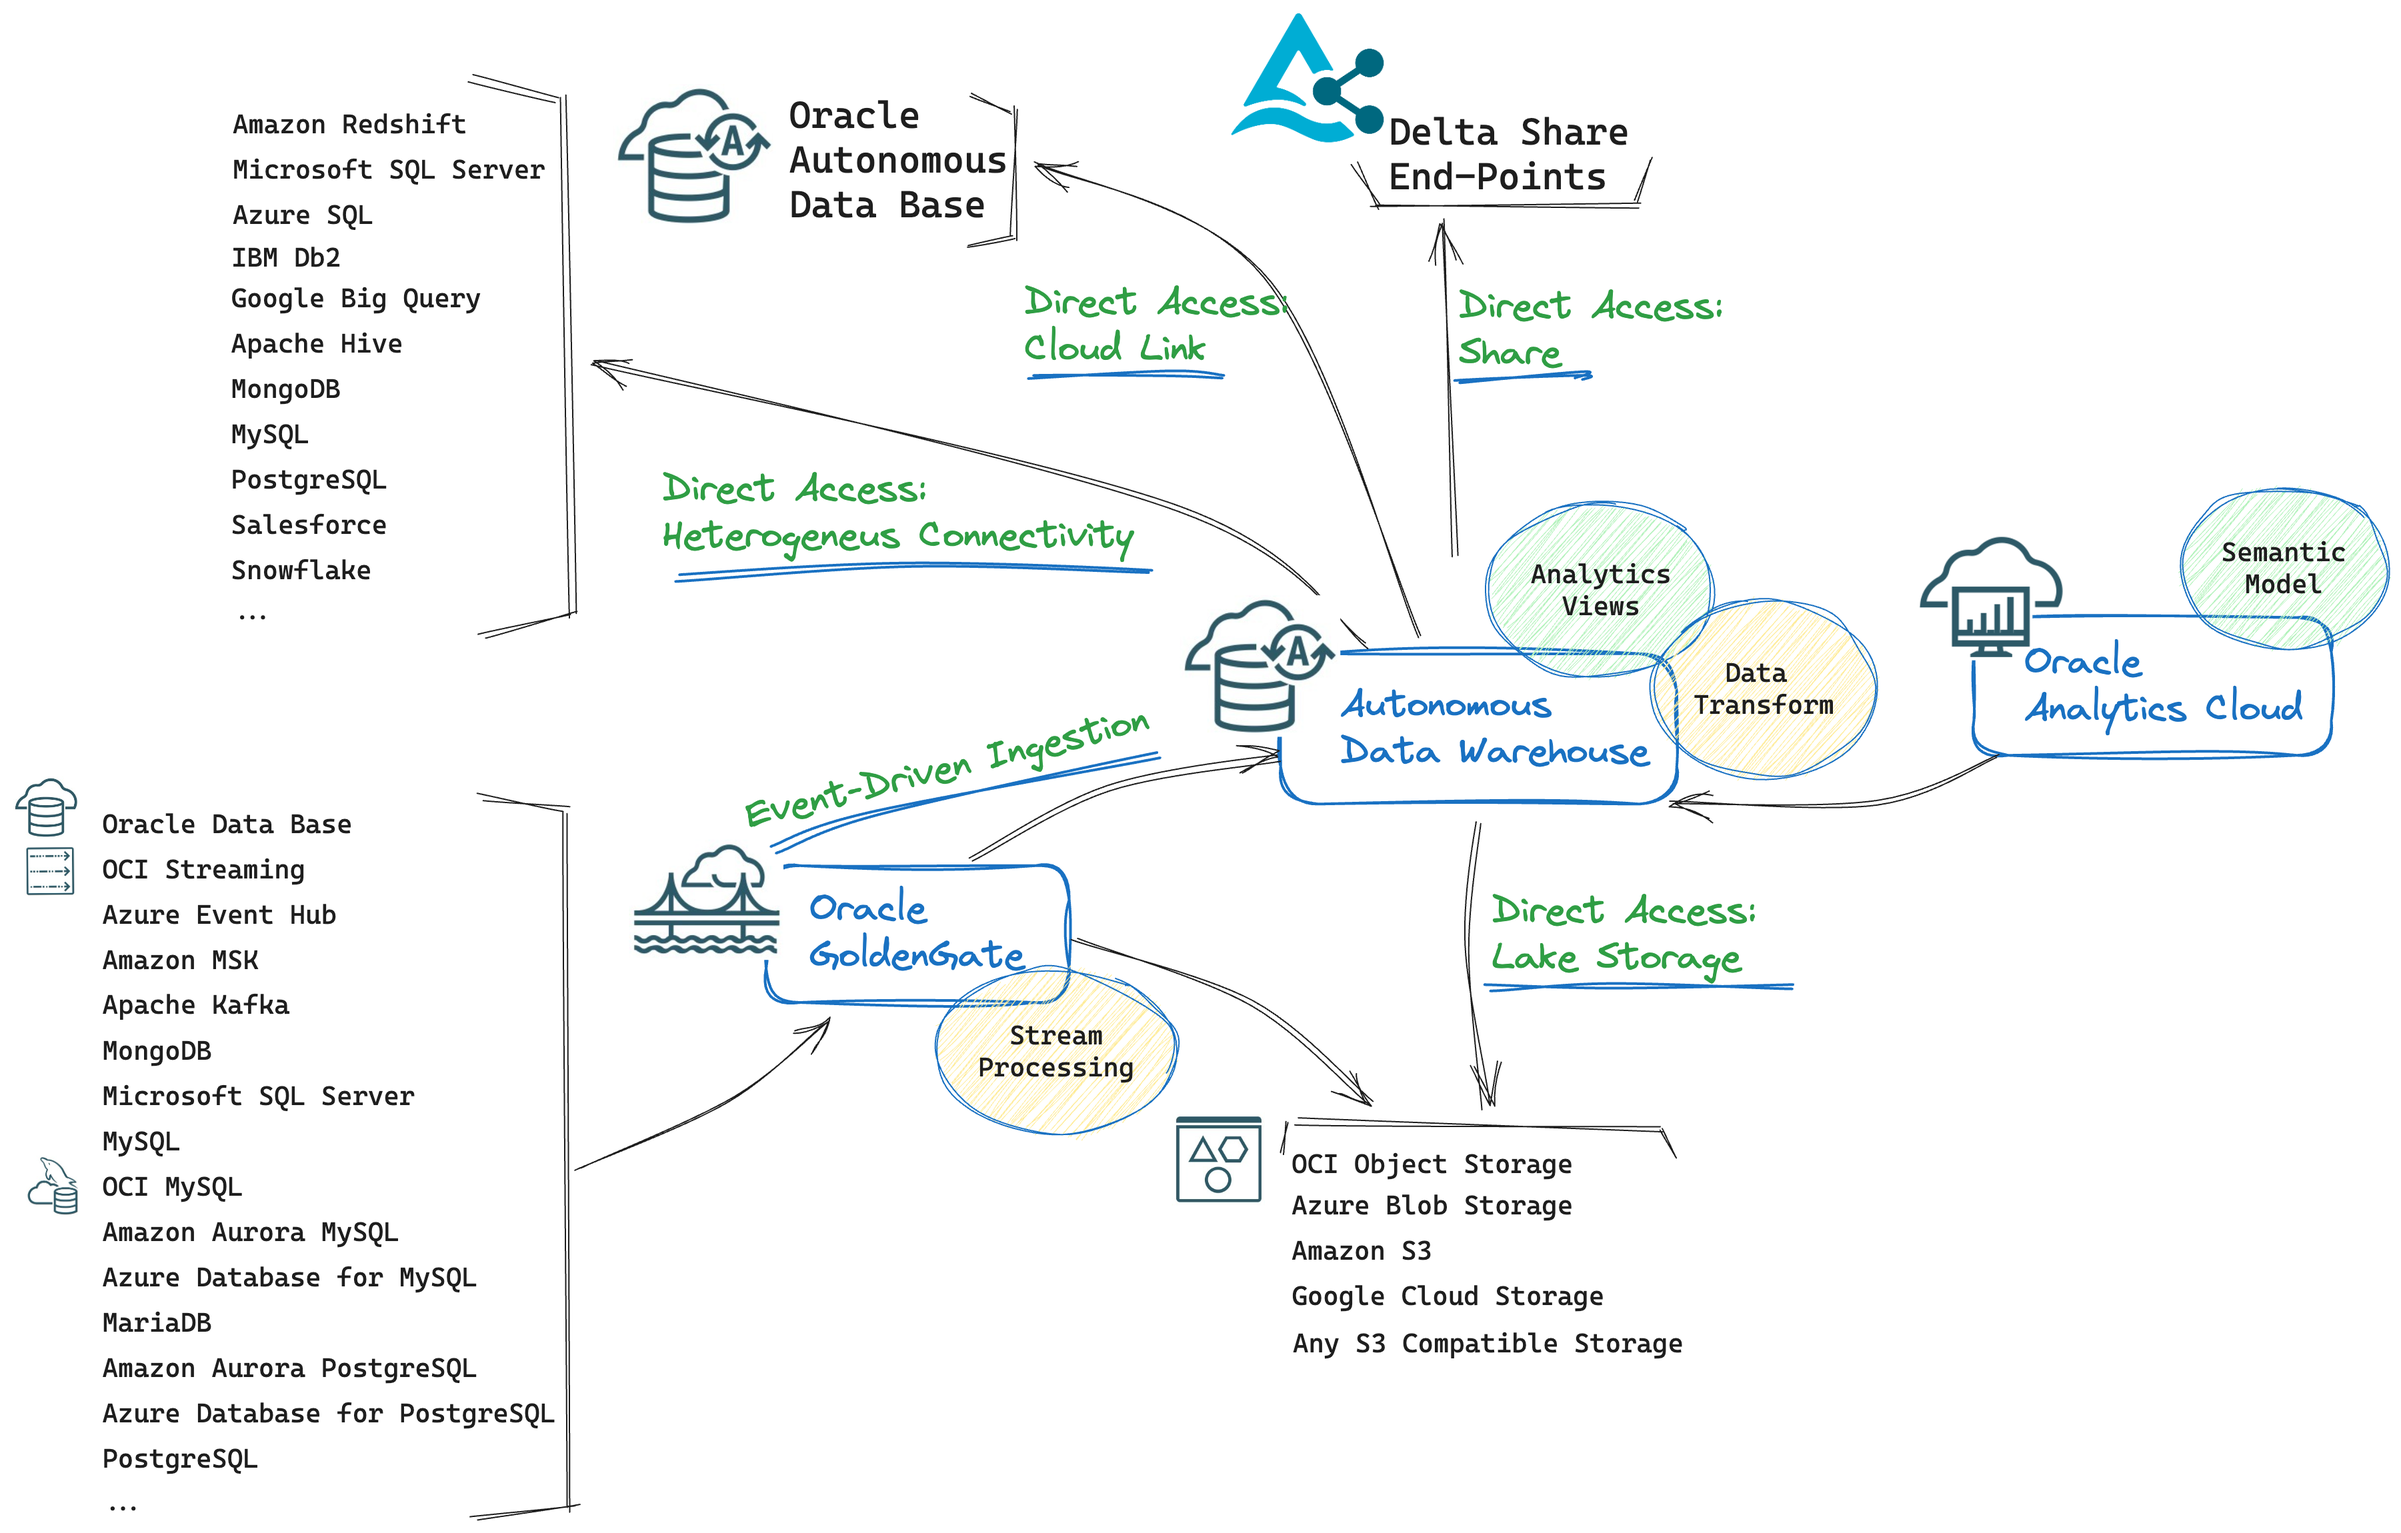
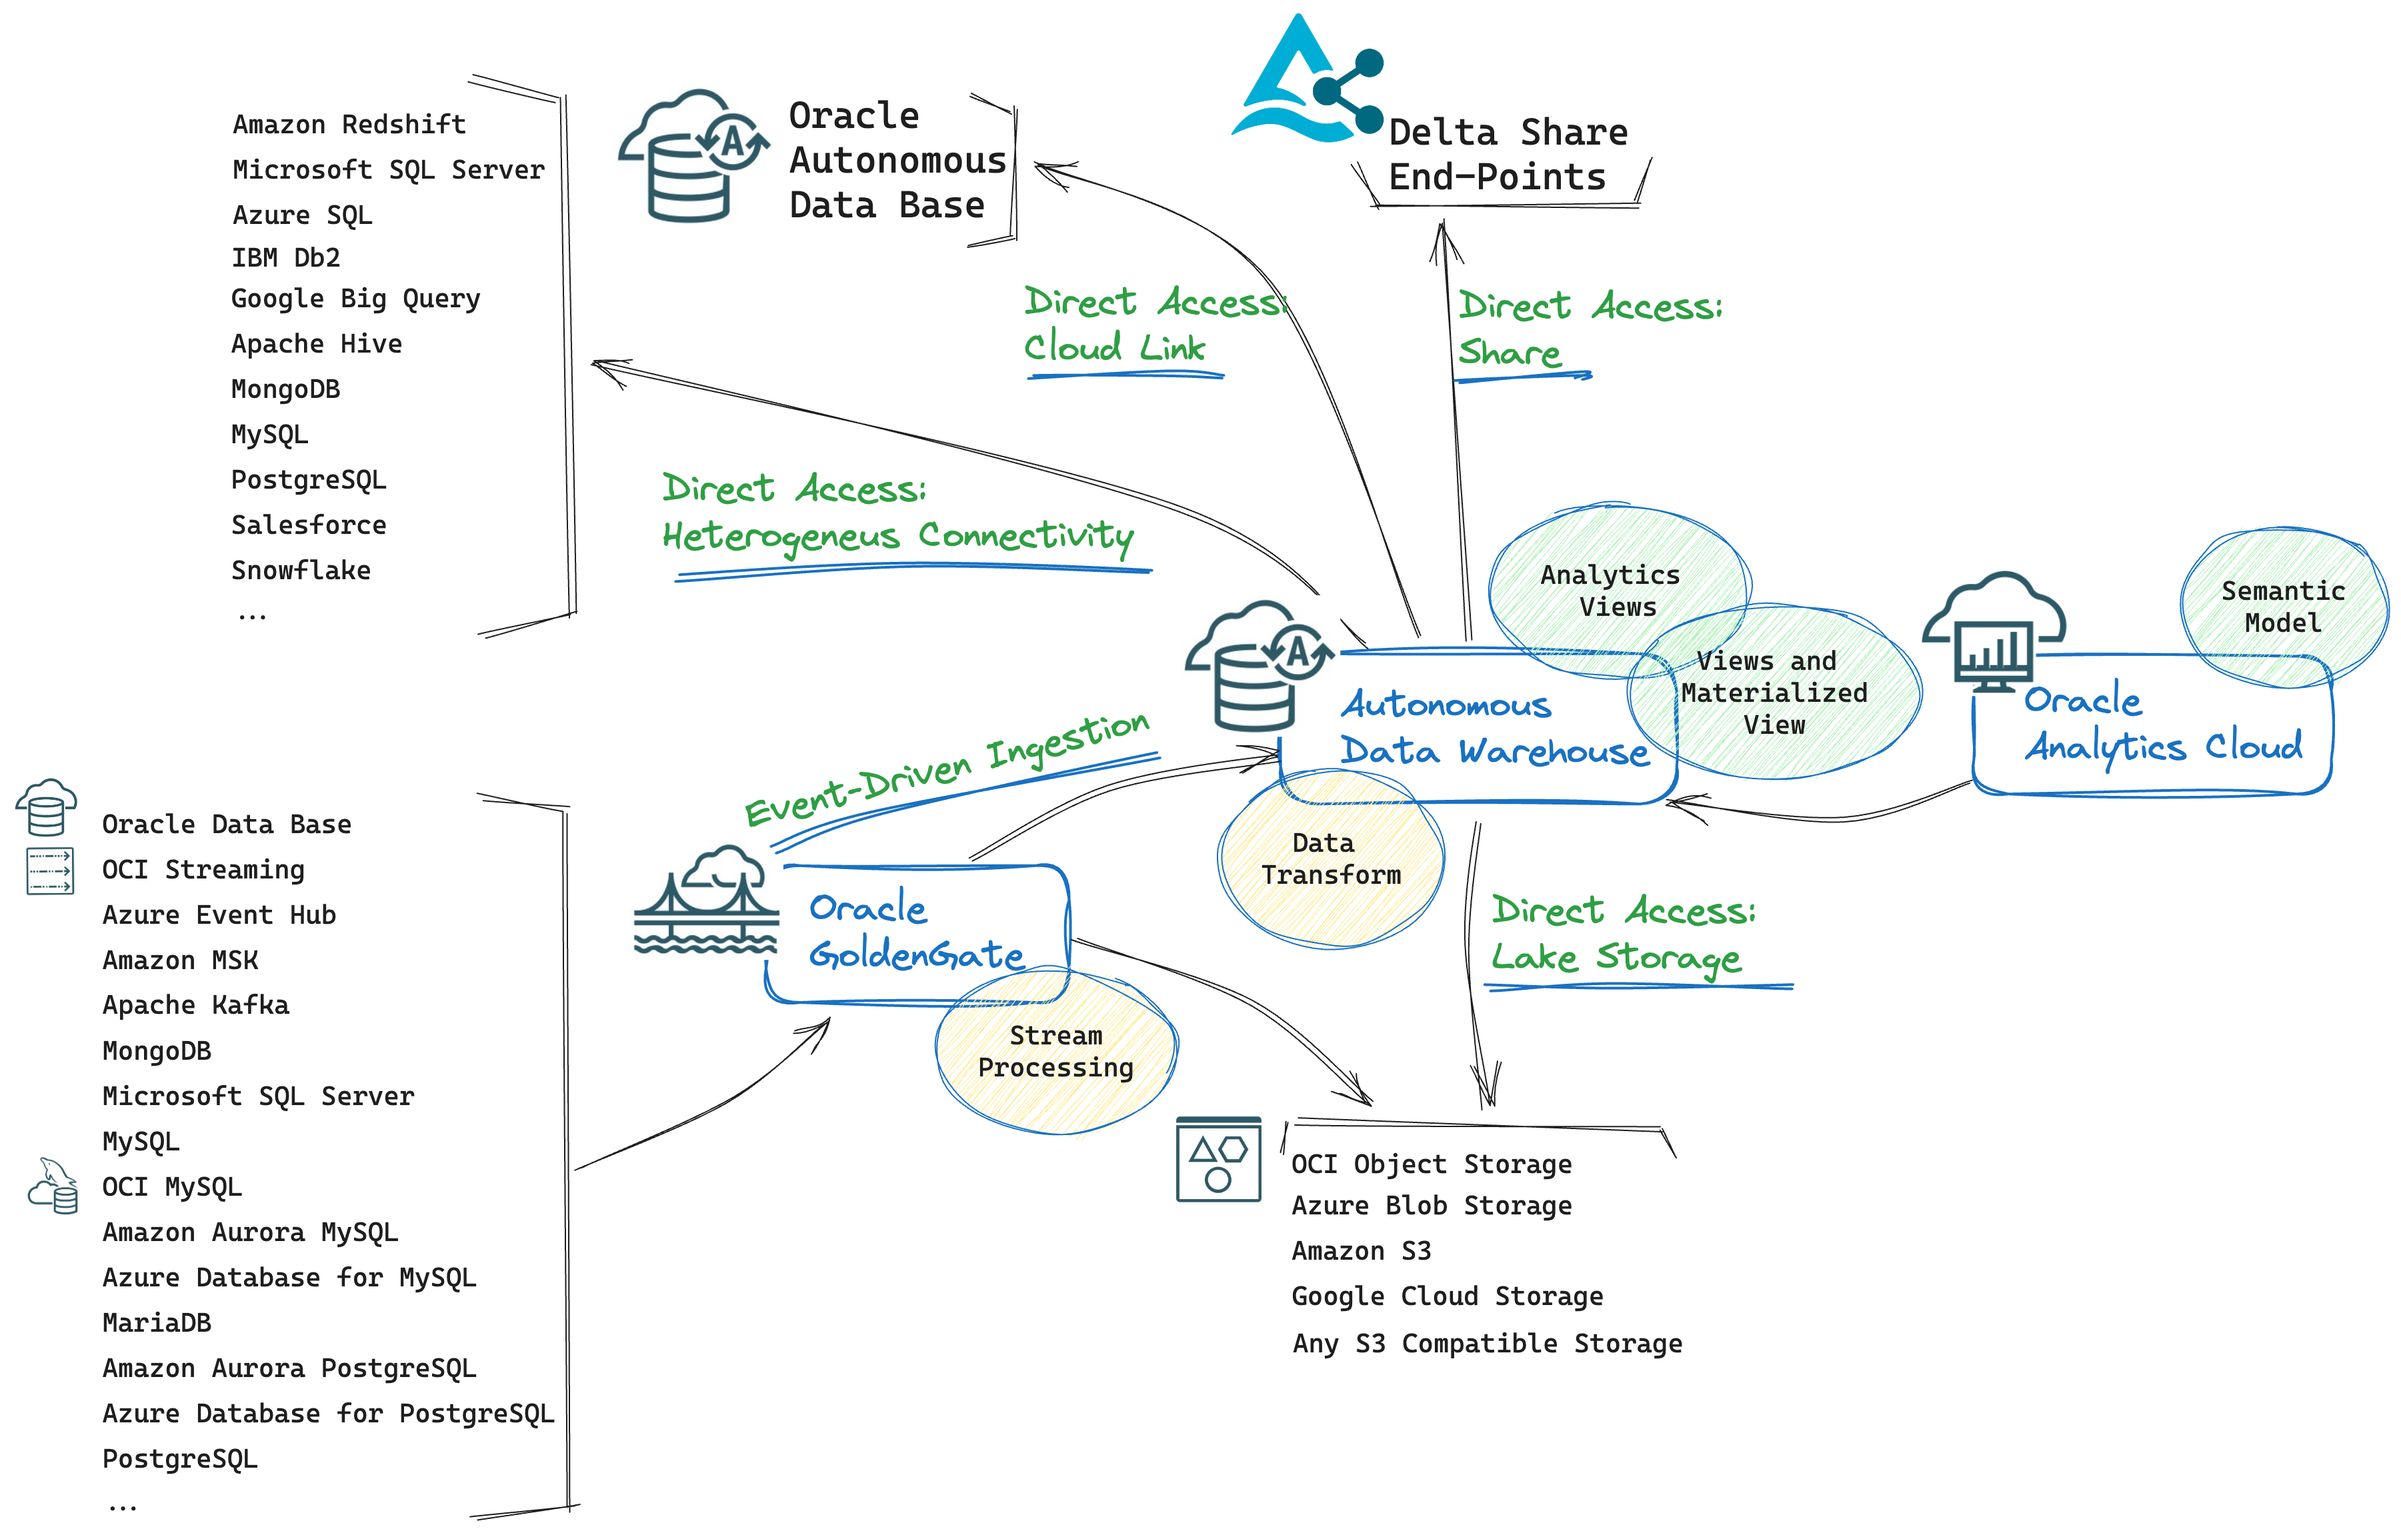
Small Review v1.0 Zero ETL

diff --git a/_posts/2023-09-30-ZeroETL-Lakehouse-Oracle-Cloud.md b/_posts/2023-09-30-ZeroETL-Lakehouse-Oracle-Cloud.md
@@ -74,7 +74,7 @@ The following sections describe the services and features of the OCI data platfo
 Leveraging Oracle Cloud services for Analytical Data Platform, you can build Lakehouse solutions that combine the abilities of a data lake and a data warehouse to process a broad range of enterprise and streaming data for business analysis and machine learning (please visit [Oracle Architecture Center](https://https://docs.oracle.com/en/solutions/data-platform-lakehouse/index.html#GUID-A328ACEF-30B8-4595-B86F-F27B512744DF) for a complete description of the reference architecture).
 
 In the context of Zero ETL, I will focus on specific capabilities and features provided by some of the services described in the reference architecture.
-Let's consider the following logical architecture:
+Let's consider the following initial state:
 
 <!--
 ![Initial Scenario - Potential Data Sources](/data-organon/images/2023-09-30-ZeroETL-Lakehouse-Oracle-Cloud/initial-scenario-zeroetl-lakehouse-oci.png)
@@ -110,7 +110,7 @@ So far, we have access to quite a complete bunch of data sources with no or mini
 
 Well, we know that *Transform* should be minimized and on-the-fly as much as possible to please a Zero ETL approach. In that perspective, we can leverage the capabilities highlighted in the picture above, namely:
 
-* **Views and Materialized Views in Oracle Autonomous Data Warehouse**: **Views** are particularly useful in a Zero ETL approach when you need to **analyze** data from **different sources** or different parts of your database schema, eventually performing the data integration and data transformation tasks often required to ease access for data consumers. You can choose to create **Materialized Views** to improve query performance, especially when you need to precalculate expensive joins and aggregation operations. Clearly, Materialized Views introduce the need for a refresh, but with Oracle Database, you have multiple options to do it automatically and efficiently.
+* **Views and Materialized Views in Oracle Autonomous Data Warehouse**: **Views** are particularly useful in a Zero ETL approach when you need to **analyze** data from **different sources** or different parts of your database schema, eventually performing the data integration and data transformation tasks that are often required to ease access for data consumers. You can also choose to create **Materialized Views** to improve query performance, especially when you need to precalculate expensive joins and aggregation operations. Clearly, Materialized Views introduce the need for a refresh, but with Oracle Database, you have multiple options to do it automatically and efficiently.
 * **Analytics Views in Oracle Autonomous Data Warehouse**: with Autonomous Data Warehouse Studio, you can visually create **Analytics Views** (alternatively, you can manually create Analytics Views with the related Oracle SQL DDL statements). They are implemented as materialized views and provide a way to simplify complex SQL queries, especially those involving **analytical and reporting functions**, since they allow to define **measures, dimensions, and hierarchies** that represent the most intuitive, consolidated, and well-known modeling approach to analyze data from a business perspective. They can involve multiple tables and join them to provide a comprehensive dataset for analysis.
 * **Oracle Analytics Cloud Semantic Model**: Oracle Analytics Cloud provides a full set of capabilities to explore and perform collaborative analytics (visualizations, dashboarding, self-service analytics, augmented analytics, self-service data preparation, and others). With OAC you can also build a **semantic model**. A semantic model is a metadata model that contains physical database objects that are abstracted and modified into logical objects. In a semantic model, you can create logical structures (combining and joining different physcal data structures), logical calculations, and logical aggregations. A semantic model then acts like a translation layer between your logical/semantic objects and your underlying data structures.
 
@@ -149,7 +149,8 @@ Therefore, with the assumption that it is always better to make these types of d
   * Autonomous Data Sharing:
     * [Oracle Documentation](https://docs.oracle.com/en-us/iaas/autonomous-database-serverless/doc/autonomous-data-share.html)
     * Delta Sharing with Oracle Cloud: [Jeff Richmond's Blog on Linkedin](https://www.linkedin.com/pulse/delta-sharing-oracle-cloud-jeff-richmond%3FtrackingId=WtO1CNNcTqStZ3CwbM%252Bz7A%253D%253D/?trackingId=WtO1CNNcTqStZ3CwbM%2Bz7A%3D%3D)
-* **Data Transform**:
+* **Oracle Materilialized Views**: [Refreshing Materialized Views](https://docs.oracle.com/en/database/oracle/oracle-database/23/dwhsg/refreshing-materialized-views.html#GUID-64068234-BDB0-4C12-AE70-75571046A586) 
+* **Oracle Data Transform**:
   * Introducing Data Transforms: Built in Data Integration for Autonomous Database: [Oracle Blog](https://blogs.oracle.com/datawarehousing/post/introducing-data-transforms-built-in-data-integration-for-autonomous-database)
   * Data Transform: [Oracle Documentation](https:////docs.oracle.com/en/database/data-integration/data-transforms/using/introduction-oracle-data-transforms.html#GUID-F16BE156-BA52-4DDD-9CCF-5EB486882D7A)
 * **OCI GoldenGate Stream Analytics**: [Oracle Documentation](https://docs.oracle.com/en-us/iaas/goldengate/doc/stream-and-analyze.html)
